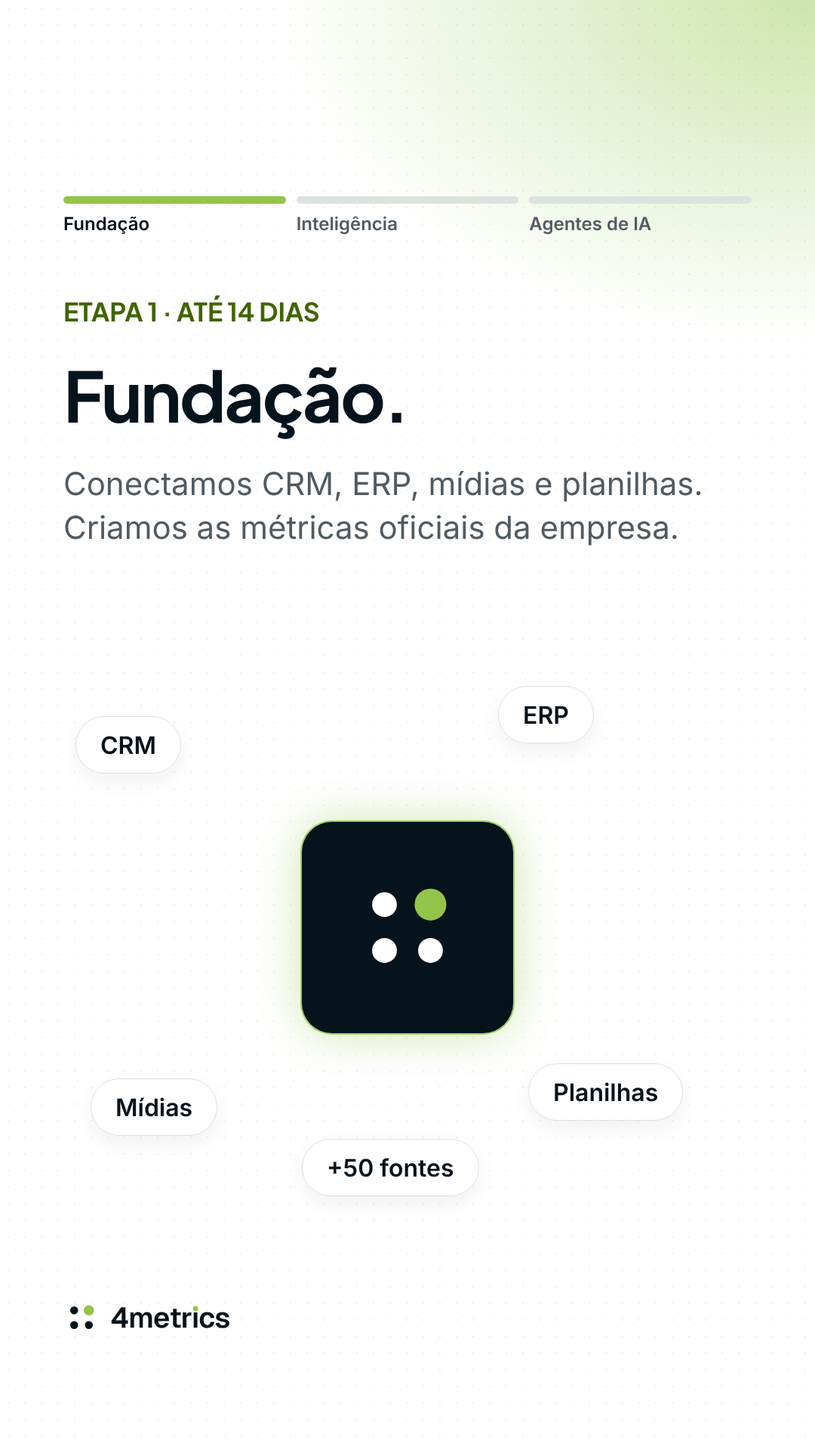
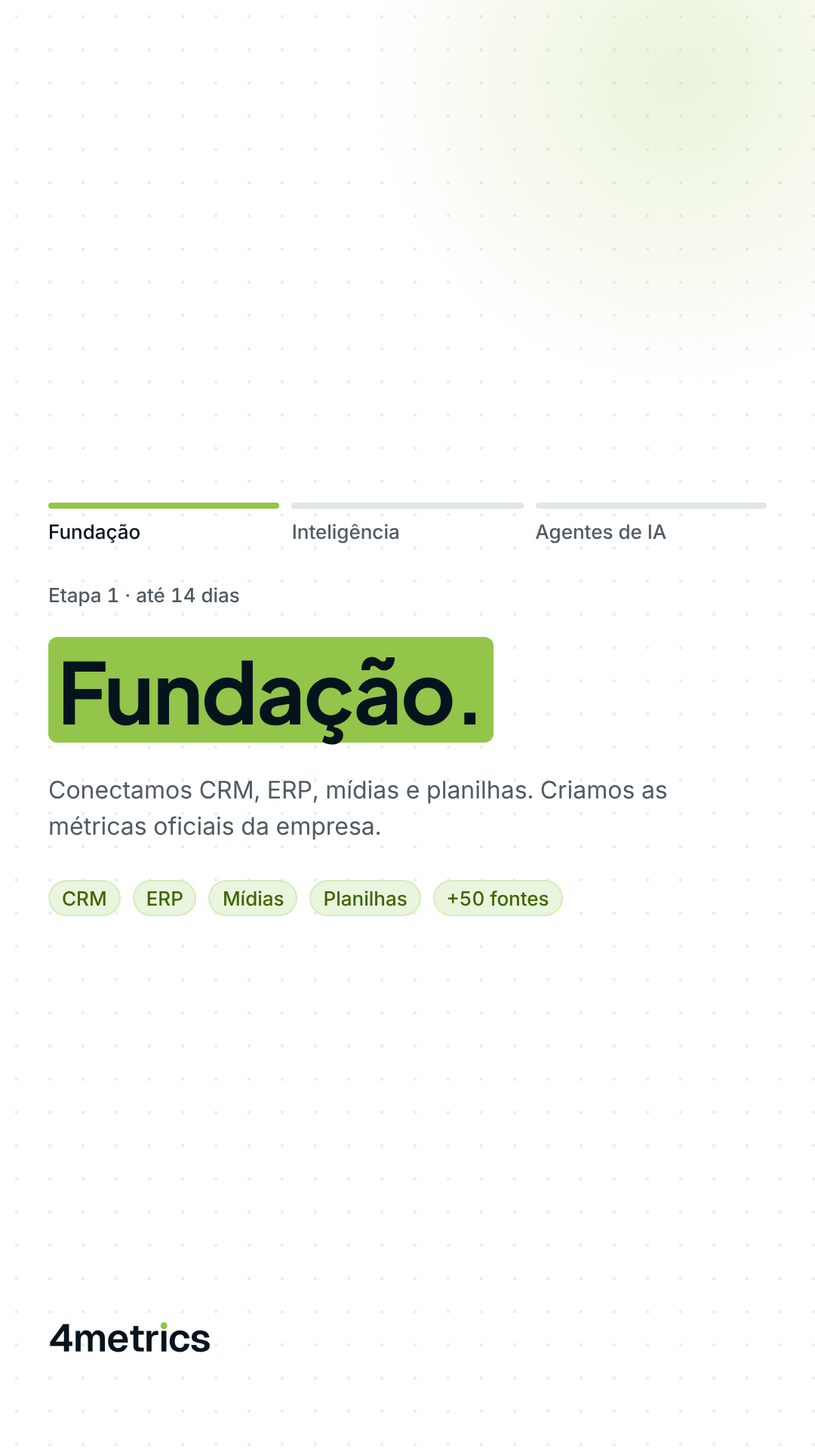
Pauta do site v3 no padrão do Design System 4metrics (tokens, raios, tipografia, componentes)
Claude-Session: https://claude.ai/code/session_01Kt7fy7HPrgyLGaKQANdjYb

diff --git a/kit/tools/pauta_ds.py b/kit/tools/pauta_ds.py
@@ -1,0 +1,164 @@
+import sys
+sys.path.insert(0, "/home/claude/tools")
+from ds4m import *
+V = "v3"
+OUT = "/home/claude/out/pauta-ds"
+
+# ============ T10 · 67% · 04/12 · estático névoa
+bars = "".join(f'<div style="display:flex;align-items:center;gap:12px"><span class="label" style="width:36px">{y}</span><div style="flex:1;height:12px;border-radius:999px;background:var(--subtle);border:1px solid var(--border);overflow:hidden"><div style="width:{v}%;height:100%;background:{c}"></div></div><span class="metric" style="width:56px;text-align:right">{v}%</span></div>' for y, v, c in (("2023", 55, "var(--bstrong)"), ("2024", 67, "var(--brand)")))
+frame(f"2026-12-04-confianca-67-{V}", "fe", "nevoa", f'''
+<div style="display:flex;gap:16px;align-items:center"><span class="display" style="font-size:96px;line-height:96px;letter-spacing:-0.04em">67%</span><div style="flex:1">{ph("5716001",120)}</div></div>
+{title("das organizações não confiam totalmente nos dados que usam para decidir.", "não confiam", "h1", "nevoa")}
+<div class="mid"><div class="card" style="display:grid;gap:12px">{bars}<span class="small muted">A desconfiança cresceu em um ano.</span></div></div>
+<p class="label" style="position:absolute;right:32px;bottom:32px;text-align:right;font-size:11px;line-height:15px">Fonte: Precisely e Drexel University,<br>2025 Outlook: Data Integrity Trends and Insights</p>''', "Dados de mercado")
+S = f"2026-12-04-st-confianca-67-{V}"
+frame(S+"-01", "st", "photo", f'<div class="mid">{title("2 em cada 3 empresas não confiam no próprio número.", "não confiam", "display", "photo")}</div>', "Dados de mercado", photo=("3184292",))
+frame(S+"-02", "st", "light", f'{title("A desconfiança está crescendo.", "crescendo", "h1", "light")}<div class="mid"><div class="card" style="display:grid;gap:16px">{bars}</div><p class="small muted">Organizações que não confiam totalmente nos dados que usam para decidir. Fonte: Precisely e Drexel University, 2025 Outlook.</p></div>')
+nums = '<div style="display:grid;grid-template-columns:1fr 1fr 1fr;gap:8px">' + "".join(f'<div class="card" style="padding:16px;display:grid;gap:4px"><span class="label">{a}</span><span class="metric" style="font-size:22px">{b}</span></div>' for a, b in (("Planilha", "R$ 1,08 mi"), ("Power BI", "R$ 1,24 mi"), ("Relatório", "R$ 980 mil"))) + '</div>'
+frame(S+"-03", "st", "dark", f'{title("O sintoma: cada área chega com o seu número.", "sintoma", "h1", "dark")}<div class="mid"><p class="body muted">Quanto vendemos este mês?</p>{nums}</div>')
+oficial = metric("Receita do mês · número oficial", "R$ 1,12 mi", delta("+8%", "vs. outubro"), feat=True)
+frame(S+"-04", "st", "lima", f'<div class="mid">{title("Com a 4metrics, um número oficial.", None, "display", "lima")}{oficial}<p class="body">Uma regra por métrica, verificada e igual para todo mundo.</p><p class="h3">Responda: DIAGNÓSTICO</p></div>')
+
+# ============ T6 · fila · 07/12 · stories (feed = Reel)
+S = f"2026-12-07-st-fila-relatorios-{V}"
+frame(S+"-01", "st", "photo", f'<div class="mid">{title("Seu time de dados virou fila de relatórios?", "fila", "display", "photo")}</div>', "Custo da demora", photo=("7688336",))
+tk = [("#124", "Receita por canal", "há 6 dias"), ("#125", "CAC de outubro", "há 4 dias"), ("#126", "Leads parados no funil", "há 3 dias"), ("#127", "Meta x realizado por loja", "há 1 dia")]
+frame(S+"-02", "st", "light", f'''{title("Um pedido para cada número.", "pedido", "h1", "light")}<div class="mid"><table class="tbl" style="border:1px solid var(--border);border-radius:16px;overflow:hidden;border-collapse:separate;border-spacing:0">
+<tr><th>Pedido</th><th>Relatório</th><th style="text-align:right">Na fila</th></tr>{"".join(f'<tr><td class="muted">{a}</td><td style="font-weight:500">{b}</td><td style="text-align:right;color:var(--warn);font-weight:600;white-space:nowrap">{c}</td></tr>' for a,b,c in tk)}</table>
+<p class="body muted">E a semana passa montando relatório.</p></div>''')
+frame(S+"-03", "st", "nevoa", f'''{title("Com a 4metrics, a resposta chega na hora.", "na hora", "h1", "nevoa")}<div class="mid">
+<div style="align-self:flex-end;background:#05131C;color:#fff;border-radius:16px;padding:12px 16px" class="body">Qual foi o CAC de outubro?</div>
+{metric("CAC de outubro · número oficial", "R$ 48", '<span class="small muted">O mesmo número do painel, com a regra oficial.</span>', feat=True)}</div>''')
+frame(S+"-04", "st", "dark", f'<div class="mid">{title("E o time de dados volta a melhorar o dado.", "melhorar", "display", "dark")}<p class="body muted">Comercial e marketing saem da fila.</p><p class="h3">Responda: DIAGNÓSTICO</p></div>')
+
+# ============ T1 · métricas oficiais · 14/12 · carrossel névoa 5
+C = f"2026-12-14-metricas-oficiais-{V}"
+frame(C+"-01", "fe", "nevoa", f'''{title("Acabou a briga pelo número certo.", "certo", "display", "nevoa")}
+<div class="mid" style="gap:0">{ph("3184339",250)}<div style="margin:-56px 24px 0;position:relative">{metric("Receita do mês · número oficial","R$ 1,12 mi",delta("+8%","vs. outubro"),feat=True,extra="background:#fff")}</div></div>''', "Métricas oficiais")
+frame(C+"-02", "fe", "dark", f'<p class="body muted">Quanto vendemos este mês?</p>{title("Três ferramentas. Três números.", "Três números.", "h1", "dark")}<div class="mid">{nums}<p class="body muted">E a reunião discute qual está certo.</p></div>')
+mcard = lambda: f'''<div class="card feat" style="display:grid;gap:0;padding:20px 24px"><div style="display:flex;justify-content:space-between;align-items:center;margin-bottom:8px"><span class="h3">Ticket médio</span>{state("pos","Verificada")}</div>
+{"".join(f'<div style="display:flex;justify-content:space-between;padding:8px 0;border-top:1px solid var(--border)"><span class="small muted">{k}</span><span class="small" style="font-weight:500">{v}</span></div>' for k,v in (("Fórmula","receita faturada ÷ pedidos"),("Fonte","ERP"),("Versão","v3, aprovada pelo comercial"),("Usada em","painel, alerta, resumo e sua IA")))}</div>'''
+frame(C+"-03", "fe", "light", f'{title("Uma regra por métrica.", "regra", "h1", "light")}<p class="body muted">Conversão, ticket médio, meta e receita: definidas uma vez com o seu time.</p><div class="mid">{mcard()}</div>')
+frame(C+"-04", "fe", "nevoa", f'{title("Verificado antes de publicar.", "Verificado", "h1", "nevoa")}<p class="body muted">Se a regra muda, o número volta para revisão antes de chegar à diretoria.</p><div class="mid">{steps(["A regra muda","O número vai para revisão","A nova versão é aprovada","A diretoria recebe o número certo"])}</div>')
+frame(C+"-05", "fe", "light", f'<div class="mid">{title("Igual em todo lugar.", "todo lugar", "h1", "light")}{chips(["Painel","Alerta","Resumo diário","Agentes de IA"])}<p class="body">Uma regra, um número oficial e a mesma resposta para o seu time e para os seus agentes de IA.</p>{btn()}<p class="small muted">Ou comente DIAGNÓSTICO.</p></div>')
+S = f"2026-12-14-st-metricas-oficiais-{V}"
+frame(S+"-01", "st", "photo", f'<div class="mid">{title("Qual número está certo?", "certo?", "display", "photo")}</div>', "Métricas oficiais", photo=("3183197",))
+frame(S+"-02", "st", "dark", f'{title("Planilha, Power BI e relatório. Três respostas.", "Três respostas.", "h1", "dark")}<div class="mid">{nums}</div>')
+frame(S+"-03", "st", "light", f'{title("Na 4metrics, cada métrica tem uma regra oficial.", "regra oficial", "h1", "light")}<div class="mid">{mcard()}</div>')
+frame(S+"-04", "st", "lima", f'<div class="mid">{title("A reunião discute o que fazer.", None, "display", "lima")}<p class="body">Não qual número está certo.</p><p class="h3">Responda: DIAGNÓSTICO</p></div>')
+
+# ============ T7 · segurança · 21/12 · estático névoa
+seals = ["Conformidade com a LGPD", "Criptografia", "Acesso auditável", "Verificação em duas etapas", "DPA disponível"]
+frame(f"2026-12-21-seguranca-{V}", "fe", "nevoa", f'''<div style="display:flex;gap:16px;align-items:center">{title("Seus dados protegidos do início ao fim.", "protegidos", "h1", "nevoa", "flex:1")}<div style="width:140px;flex:none">{ph("1181467",140,"30% center","999px")}</div></div>
+<div class="mid">{items(seals,"shield-check")}</div><p class="small muted">E os seus agentes de IA executam com a sua aprovação.</p>''', "Segurança")
+S = f"2026-12-21-st-seguranca-{V}"
+frame(S+"-01", "st", "photo", f'<div class="mid">{title("IA com os dados da empresa. E a segurança?", "segurança?", "display", "photo")}</div>', "Segurança", photo=("3861969",))
+frame(S+"-02", "st", "light", f'{title("Com IA genérica, o controle sai da sua mão.", "controle", "h1", "light")}<div class="mid">{items(["Dados da empresa e de clientes fora do seu controle","Sem rastreabilidade de onde o número veio","A responsabilidade continua sendo sua"],"arrow-right")}</div>')
+frame(S+"-03", "st", "nevoa", f'{title("Na 4metrics, a segurança vem junto.", "segurança", "h1", "nevoa")}<div class="mid">{items(seals,"shield-check")}</div>')
+frame(S+"-04", "st", "dark", f'<div class="mid">{title("O mesmo controle de acesso, também na sua IA.", "também", "display", "dark")}<p class="body muted">Seus agentes executam com a sua aprovação. E fica registrado.</p><p class="h3">Responda: DIAGNÓSTICO</p></div>')
+
+# ============ T2 · regra muda · 06/01 · stories (feed = Reel)
+S = f"2027-01-06-st-regra-muda-{V}"
+frame(S+"-01", "st", "photo", f'<div class="mid">{title("E quando a regra muda?", "muda?", "display", "photo")}<p class="body muted">O CPL passa a contar só lead qualificado.</p></div>', "Métricas oficiais", photo=("669615",))
+frame(S+"-02", "st", "light", f'''{title("Sem regra oficial, tudo é refeito.", "refeito", "h1", "light")}<div class="mid"><div style="display:flex;flex-direction:column;gap:8px">{"".join(f'<div class="card" style="padding:12px 16px;display:flex;justify-content:space-between;align-items:center"><span class="body" style="font-weight:500">{x}</span>{state("warn","Refazer")}</div>' for x in ("Planilha","Power BI","Relatório"))}</div><p class="body muted">Por semanas, cada um mostra uma regra.</p></div>''')
+ver = f'''<div class="card feat" style="display:grid;gap:12px"><div style="display:flex;justify-content:space-between;align-items:center"><span class="h2">CPL</span>{state("pos","Versão 2 · hoje")}</div>
+<span class="small muted" style="text-decoration:line-through">Versão 1: custo ÷ todos os leads</span><span class="body" style="font-weight:500">Versão 2: custo ÷ leads qualificados</span></div>'''
+frame(S+"-03", "st", "dark", f'{title("Na 4metrics, a regra muda uma vez, com nova versão.", "uma vez", "h1", "dark")}<div class="mid">{ver}</div>')
+frame(S+"-04", "st", "lima", f'<div class="mid">{title("No mesmo dia, em todo lugar.", None, "display", "lima")}{chips(["Painel","Alerta","Sua IA"])}<p class="h3">Responda: DIAGNÓSTICO</p></div>')
+
+# ============ T3 · camada semântica · 08/01 · estático névoa
+frame(f"2027-01-08-camada-semantica-{V}", "fe", "nevoa", f'''{title("A IA consulta a métrica pronta. Nunca a tabela crua.", "pronta", "h1", "nevoa")}
+<div class="mid" style="gap:0">{ph("7213549",170)}<div style="margin:-48px 20px 0;position:relative">{mcard().replace('class="card feat"','class="card feat" style="background:#fff"',1)}</div></div>''', "Camada semântica")
+S = f"2027-01-08-st-camada-semantica-{V}"
+frame(S+"-01", "st", "photo", f'<div class="mid">{title("Por que a IA erra o número?", "erra", "display", "photo")}</div>', "Camada semântica", photo=("6801648",))
+frame(S+"-02", "st", "light", f'{title("Ela não conhece as regras do seu negócio.", "regras", "h1", "light")}<p class="body muted">Para acertar, a IA precisa de três coisas:</p><div class="mid">{steps(["Contexto do negócio: metas, regras e o que cada área chama de venda","Contexto dos dados: de onde vem cada número","Camada semântica: as métricas oficiais"])}</div>')
+frame(S+"-03", "st", "nevoa", f'{title("A métrica pronta, com nome, fórmula e versão.", "pronta", "h1", "nevoa")}<div class="mid">{mcard()}</div>')
+frame(S+"-04", "st", "dark", f'<div class="mid">{title("O mesmo contexto em todo lugar.", "contexto", "display", "dark")}<p class="body muted">No painel, no alerta, no chat e na sua IA via MCP.</p><p class="h3">Responda: DIAGNÓSTICO</p></div>')
+
+# ============ T5 · time de dados · 11/01 · carrossel claro 5
+C = f"2027-01-11-sem-time-de-dados-{V}"
+frame(C+"-01", "fe", "light", f'{title("Você não precisa de um time de dados. Você precisa da resposta.", "resposta", "h1", "light")}<div class="mid">{ph("3182812",330,"center 30%")}</div>', "Revenue Intelligence")
+frame(C+"-02", "fe", "nevoa", f'{title("Montar um time de dados é caro e demorado.", "caro", "h1", "nevoa")}<div class="mid">{items(["Contratar e reter especialistas","Conectar e manter as fontes","Criar e ajustar as regras do negócio","Atender a fila de pedidos"],"arrow-right")}</div>')
+tb = [("Quem faz", "Você contrata um projeto", "O seu time monta", "A 4metrics faz, sempre"), ("O que recebe", "Dashboard no fim", "Ferramentas para montar", "Resposta com o próximo passo"), ("1ª resposta", "Semanas a meses", "Depende do seu time", "Até 14 dias"), ("Negócio mudou", "Novo orçamento", "O seu time refaz", "A 4metrics ajusta"), ("Pronto para IA", "Fora do escopo", "Se o seu time montar", "Sim, via MCP")]
+tbl = '<table class="tbl" style="font-size:12px;line-height:16px;border:1px solid var(--border);border-radius:16px;overflow:hidden;border-collapse:separate;border-spacing:0"><tr><th></th><th>Consultoria de BI</th><th>Plataforma de dados</th><th style="color:var(--strong)">4metrics</th></tr>' + "".join(f'<tr><td style="font-weight:600;padding:10px 8px">{r[0]}</td><td class="muted" style="padding:10px 8px">{r[1]}</td><td class="muted" style="padding:10px 8px">{r[2]}</td><td style="font-weight:600;padding:10px 8px;background:var(--bsub)">{r[3]}</td></tr>' for r in tb) + '</table>'
+frame(C+"-03", "fe", "light", f'{title("Consultoria, plataforma ou 4metrics?", "4metrics?", "h1", "light")}<div class="mid">{tbl}</div>')
+frame(C+"-04", "fe", "dark", f'{title("A fundação é com a gente.", "com a gente", "h1", "dark")}<div class="mid">{steps(["Mapeamento: entendemos o negócio antes do dado","Acesso: você libera, a gente conecta","Extração: os dados chegam sozinhos, todo dia","Modelagem: um número só, com uma regra só","Manutenção: a fundação não para no primeiro dia"])}</div>')
+frame(C+"-05", "fe", "nevoa", f'<div class="mid">{metric("Primeiro insight","Até 14 dias",feat=True)}{title("Sem montar time de dados. Sem trocar suas ferramentas.", "Sem trocar", "h1", "nevoa")}{btn()}<p class="small muted">Ou comente DIAGNÓSTICO.</p></div>')
+S = f"2027-01-11-st-sem-time-de-dados-{V}"
+frame(S+"-01", "st", "nevoa", f'{title("Precisa contratar um time de dados?", "time de dados?", "display", "nevoa")}<div class="mid">{ph("5439381",420)}</div>', "Revenue Intelligence")
+frame(S+"-02", "st", "light", f'<div class="mid">{title("Não.", "Não.", "display", "light")}<p class="body">O time da 4metrics conecta as fontes, cria as métricas e ajusta as regras quando o seu negócio muda.</p></div>')
+frame(S+"-03", "st", "dark", f'{title("A fundação é com a gente.", "com a gente", "h1", "dark")}<div class="mid">{steps(["Mapeamento","Acesso","Extração","Modelagem","Manutenção"])}</div>')
+frame(S+"-04", "st", "lima", f'<div class="mid">{title("Primeiro insight em até 14 dias.", None, "display", "lima")}<p class="h3">Responda: DIAGNÓSTICO</p></div>')
+
+# ============ T4 · agentes · 13/01 · stories (feed = Reel)
+S = f"2027-01-13-st-agentes-aprovacao-{V}"
+frame(S+"-01", "st", "photo", f'<div class="mid">{title("E se a IA executasse o próximo passo?", "próximo passo?", "display", "photo")}</div>', "Agentes de IA", photo=("7567443",))
+frame(S+"-02", "st", "light", f'{title("Do gargalo à execução.", "execução", "h1", "light")}<div class="mid">{steps(["A 4metrics encontra o gargalo","O próximo passo vai para o seu agente","Você aprova","Ele executa no CRM e fica registrado"])}</div>')
+appr = f'''<div class="card feat" style="display:grid;gap:16px">{state("warn","Atenção")}<span class="h2">Priorizar os contatos parados há mais de 30 dias.</span>
+<div style="display:flex;gap:8px"><span class="btn">Aprovar</span><span class="btn" style="background:var(--surface);color:var(--ink);border:1px solid var(--bstrong)">Ajustar</span></div></div>'''
+frame(S+"-03", "st", "nevoa", f'{title("Nada acontece sem você.", "sem você", "h1", "nevoa")}<div class="mid">{appr}</div>')
+frame(S+"-04", "st", "dark", f'<div class="mid">{title("Você decide quem executa: o seu time ou os seus agentes.", "Você decide", "display", "dark")}<p class="h3">Responda: DIAGNÓSTICO</p></div>')
+
+# ============ T8 · parceiros · 15/01 · estático lima
+pt = '<div style="display:flex;flex-direction:column;gap:8px">' + "".join(f'<div class="card" style="padding:16px 20px;display:flex;align-items:center;gap:12px"><span style="display:flex;color:#406500">{ico("check")}</span><span class="h2">{x}</span></div>' for x in ("Google Cloud", "Gemini Enterprise", "Claude Partner Network")) + '</div>'
+frame(f"2027-01-15-parceiros-{V}", "fe", "lima", f'''<div style="display:flex;gap:16px;align-items:center">{title("Parceiros oficiais de quem faz a IA.", None, "h1", "lima", "flex:1")}<div style="width:130px;flex:none">{ph("3184465",130,"center","999px")}</div></div>
+<div class="mid">{pt}</div><p class="small" style="color:#1F3A12">Seus números oficiais chegam a qualquer IA por uma conexão única.</p>''', "Parceiros")
+S = f"2027-01-15-st-parceiros-{V}"
+frame(S+"-01", "st", "photo", f'<div class="mid">{title("Com quem a 4metrics trabalha?", "trabalha?", "display", "photo")}</div>', "Parceiros", photo=("5673488",))
+frame(S+"-02", "st", "lima", f'{title("Parceiros oficiais.", None, "h1", "lima")}<div class="mid">{pt}</div>')
+frame(S+"-03", "st", "dark", f'{title("Uma conexão única para qualquer IA.", "qualquer IA", "h1", "dark")}<div class="mid">{chips(["ChatGPT","Claude","Gemini","Copilot"])}<p class="body muted">Quando a sua empresa trocar ou adicionar uma IA, ela já lê os mesmos números.</p></div>')
+frame(S+"-04", "st", "light", f'<div class="mid">{title("Sua empresa pronta para cada nova IA.", "pronta", "display", "light")}<p class="h3">Responda: DIAGNÓSTICO</p></div>')
+
+# ============ T9 · BI e company brain · 18/01 · carrossel claro 4
+C = f"2027-01-18-bi-company-brain-{V}"
+frame(C+"-01", "fe", "light", f'''<div class="mid" style="flex-direction:row;align-items:center;gap:20px"><div style="flex:1;display:flex;flex-direction:column;gap:16px"><p class="body muted">As dúvidas que ouvimos antes de todo diagnóstico.</p>{title("Já tenho BI. Faz sentido?", "sentido?", "h1", "light")}{chips(["BI","Company brain","MCP do CRM"])}</div>
+<div style="width:200px;flex:none">{ph("8867431",400,"60% center")}</div></div>''', "Dúvidas frequentes")
+hub = lambda a, b: f'''<div style="display:flex;align-items:center;gap:12px"><div class="card" style="flex:1;text-align:center;padding:20px 12px"><span class="h3">{a}</span></div><span class="strong" style="display:flex">{ico("arrow-left-right",24)}</span>
+<div class="card feat" style="flex:1;display:flex;flex-direction:column;align-items:center;gap:8px;padding:16px 12px"><img src="file://{LOGOS}/4metrics-simbolo.svg" style="height:32px"><span class="h3">{b}</span></div></div>'''
+frame(C+"-02", "fe", "nevoa", f'{title("A 4metrics substitui o meu BI?", "BI?", "h1", "nevoa")}<p class="body">Pode substituir, mas não precisa. Funciona junto com o BI que você já usa e tira o comercial da fila de pedidos.</p><div class="mid">{hub("Seu BI","4metrics")}</div>')
+frame(C+"-03", "fe", "light", f'{title("Já usamos um company brain.", "company brain.", "h1", "light")}<p class="body">Ele conhece documentos e conversas. A 4metrics entrega para ele os números oficiais e o próximo passo, via MCP.</p><div class="mid">{hub("Company brain","Números oficiais")}</div>')
+frame(C+"-04", "fe", "nevoa", f'<div class="mid">{title("Já tenho o MCP do meu CRM.", "MCP", "h1", "nevoa")}<p class="body">O MCP de uma ferramenta mostra só essa ferramenta. A 4metrics relaciona todas as fontes com as regras oficiais, em uma conexão única.</p>{chips(["CRM","ERP","Mídias","Planilhas"])}{btn()}<p class="small muted">Ou comente DIAGNÓSTICO.</p></div>')
+S = f"2027-01-18-st-bi-company-brain-{V}"
+frame(S+"-01", "st", "light", f'{title("3 dúvidas antes de todo diagnóstico.", "3 dúvidas", "display", "light")}<div class="mid">{ph("5668858",420,"40% center")}</div>', "Dúvidas frequentes")
+frame(S+"-02", "st", "nevoa", f'{title("A 4metrics substitui o meu BI?", "BI?", "h1", "nevoa")}<div class="mid"><span class="display" style="font-size:40px;line-height:44px">Pode. Mas não precisa.</span><p class="body">A 4metrics funciona junto com o BI que você já usa.</p></div>')
+frame(S+"-03", "st", "light", f'{title("Já temos um company brain.", "company brain.", "h1", "light")}<div class="mid">{hub("Company brain","Números oficiais")}<p class="body muted">A 4metrics entrega os números oficiais e o próximo passo, via MCP.</p></div>')
+frame(S+"-04", "st", "dark", f'<div class="mid">{title("Já tenho o MCP do CRM.", "MCP", "display", "dark")}<p class="body muted">Ele mostra só o CRM. A 4metrics junta todas as fontes, com as regras oficiais.</p><p class="h3">Responda: DIAGNÓSTICO</p></div>')
+
+# ============ T11 · demo + diagnóstico · 20/01 · estático escuro com foto
+two = lambda n, t: f'<div class="card" style="flex:1;display:grid;gap:8px;background:rgba(20,35,44,0.92)"><span class="mxl">{n}</span><span class="small">{t}</span></div>'
+frame(f"2027-01-20-demo-diagnostico-{V}", "fe", "photo", f'''{title("Dois jeitos de conhecer a 4metrics.", "conhecer", "display", "photo")}
+<div class="mid" style="justify-content:flex-end"><div style="display:flex;gap:8px">{two("3 min","Demo: veja a 4metrics encontrar um gargalo de receita.")}{two("30 min","Diagnóstico gratuito: mapeamos onde o dado trava a sua decisão.")}</div>{btn()}</div>''', "Comece aqui", photo=("7651922",))
+S = f"2027-01-20-st-demo-diagnostico-{V}"
+frame(S+"-01", "st", "photo", f'<div class="mid">{title("Dois jeitos de conhecer a 4metrics.", "conhecer", "display", "photo")}</div>', "Comece aqui", photo=("3184287",))
+frame(S+"-02", "st", "nevoa", f'<div class="mid">{metric("Demo no site","3 min",feat=True)}{title("O número oficial, o gargalo e o próximo passo.", "próximo passo", "h1", "nevoa")}</div>')
+frame(S+"-03", "st", "dark", f'{title("Diagnóstico gratuito de 30 minutos.", "gratuito", "h1", "dark")}<div class="mid">{items(["O mapa das suas fontes e de onde o número diverge","As decisões que mais pesam na sua receita","Onde a empresa está pronta para usar IA com segurança","Uma proposta com escopo e prazo"])}</div>')
+frame(S+"-04", "st", "lima", f'<div class="mid">{title("Sem custo. Sem compromisso.", None, "display", "lima")}<p class="body">Resposta em 1 dia útil.</p><p class="h3">Responda: DIAGNÓSTICO</p></div>')
+
+# ============ Como funciona · 23/11 · stories
+S = f"2026-11-23-como-funciona-{V}"
+frame(S+"-01", "st", "photo", f'<div class="mid">{title("Como funciona a 4metrics?", "4metrics?", "display", "photo")}<p class="body muted">Do dado espalhado à resposta pronta. Em até 14&nbsp;dias.</p></div>', "Como funciona", photo=("3184418",))
+frame(S+"-02", "st", "nevoa", f'''<div class="mid">{title("Você só acessa. A gente constrói o resto.", "constrói", "display", "nevoa")}
+<div style="display:flex;gap:8px"><div class="card" style="flex:1;display:grid;gap:4px"><span class="label">Você</span><span class="body">Acessa</span><span class="body">Pergunta</span><span class="body">Decide</span></div>
+<div class="card feat" style="flex:1;display:grid;gap:4px"><span class="label strong">4metrics</span><span class="body">Conecta</span><span class="body">Modela</span><span class="body">Governa</span></div></div></div>''', "Software com serviço")
+frame(S+"-03", "st", "light", f'{progress(0)}<span class="label">Etapa 1 · até 14 dias</span>{title("Fundação.", "Fundação.", "display", "light")}<p class="body muted">Conectamos CRM, ERP, mídias e planilhas. Criamos as métricas oficiais da empresa.</p><div class="mid">{chips(["CRM","ERP","Mídias","Planilhas","+50 fontes"])}</div>')
+frame(S+"-04", "st", "dark", f'''{progress(1)}<span class="label">Etapa 2 · até 14 dias</span>{title("Inteligência.", "Inteligência.", "display", "dark")}<p class="body muted">A IA lê os números oficiais todo dia e mostra gargalos e oportunidades, com o próximo passo.</p>
+<div class="mid" style="gap:8px">{"".join(f'<div class="card" style="display:grid;gap:6px;padding:16px">{state(k,l)}<span class="body" style="font-weight:500">{m}</span><span class="small muted">{a}</span></div>' for k,l,m,a in (("crit","Crítico","Receita faturada","Recuperar o ticket médio"),("warn","Atenção","Funil comercial","Destravar contatos parados"),("pos","Destaque","Conversão de leads","Mais vendas, mesmo volume")))}</div>''')
+frame(S+"-05", "st", "nevoa", f'{progress(2)}<span class="label">Etapa 3 · todo dia</span>{title("Agentes de IA.", "Agentes", "display", "nevoa")}<p class="body muted">A decisão entra na rotina.</p><div class="mid">{items(["Resposta para o seu time","Alertas no WhatsApp e no e-mail","Próximo passo para os seus agentes"],"arrow-right")}</div>')
+frame(S+"-06", "st", "dark", f'<div class="mid">{metric("Primeiro insight","Até 14 dias",feat=True)}{title("Sem trocar de ferramenta. Sem montar time de dados.", "Sem trocar", "h1", "dark")}</div>')
+frame(S+"-07", "st", "light", f'''{title("E depois? A gente fica do seu lado.", "do seu lado", "display", "light")}<div class="mid"><table class="tbl" style="border:1px solid var(--border);border-radius:16px;overflow:hidden;border-collapse:separate;border-spacing:0">
+<tr><th>Projeto de BI</th><th style="color:var(--strong)">4metrics</th></tr>{"".join(f'<tr><td class="muted">{a}</td><td style="font-weight:500">{b}</td></tr>' for a,b in (("Entrega única","Assinatura que evolui"),("Dashboard é o fim","Resposta e próximo passo"),("Pergunta nova = orçamento","Pergunte para a IA")))}</table>
+<p class="body">Diagnóstico gratuito de 30 minutos: mapeamos onde o dado trava a sua decisão.</p><p class="h3">Responda: DIAGNÓSTICO</p></div>''')
+
+# ============ stories "Post novo no feed"
+def feedstory(name, cover, theme):
+    frame(name, "st", theme, f'<div class="mid" style="align-items:center"><img src="file://{OUT}/{cover}.png" style="width:440px;border-radius:16px;border:1px solid var(--border)"><span class="h3" style="display:flex;align-items:center;gap:8px">Confira no perfil {ico("arrow-right",20)}</span></div>', "Post novo no feed", foot=False)
+FEEDS = [("2026-12-04-story-confianca-67", f"2026-12-04-confianca-67-{V}", "dark"), ("2026-12-14-story-metricas-oficiais", f"2026-12-14-metricas-oficiais-{V}-01", "dark"),
+         ("2026-12-21-story-seguranca", f"2026-12-21-seguranca-{V}", "dark"), ("2027-01-08-story-camada-semantica", f"2027-01-08-camada-semantica-{V}", "dark"),
+         ("2027-01-11-story-sem-time-de-dados", f"2027-01-11-sem-time-de-dados-{V}-01", "nevoa"), ("2027-01-15-story-parceiros", f"2027-01-15-parceiros-{V}", "dark"),
+         ("2027-01-18-story-bi-company-brain", f"2027-01-18-bi-company-brain-{V}-01", "dark"), ("2027-01-20-story-demo-diagnostico", f"2027-01-20-demo-diagnostico-{V}", "nevoa")]
+
+if __name__ == "__main__":
+    pass1 = render(OUT)            # renderiza tudo (capas precisam existir para os stories de feed)
+    for n, c, t in FEEDS: feedstory(f"{n}-{V}", c, t)
+    probs = render(OUT)
+    print(len(FR), "frames", probs)

diff --git a/kit/tools/ds4m.py b/kit/tools/ds4m.py
@@ -1,0 +1,158 @@
+# 4metrics · peças sociais no padrão do Design System (artifact "4metrics")
+# Desenho em tamanho lógico (feed 540x675, story 540x960) com os tokens exatos do DS
+# e exportação em deviceScaleFactor 2 (1080x1350 e 1080x1920).
+import os
+FS = "/home/claude/fonts/fs"
+LOGOS = "/home/claude/social-media/kit/logos"
+PH = "/home/claude/out/stock/full"
+
+ff = ""
+for fam, pkg, pre in [("Inter", "fontsource-inter-5.3.0", "inter"), ("Plus Jakarta Sans", "fontsource-plus-jakarta-sans-5.3.0", "plus-jakarta-sans")]:
+    for w in (400, 500, 600, 700):
+        ff += f"@font-face{{font-family:'{fam}';src:url('file://{FS}/{pkg}/package/files/{pre}-latin-{w}-normal.woff2') format('woff2');font-weight:{w}}}"
+
+# tokens.json do DS (claro / escuro) + fundos de feed do MIV (névoa, lima)
+THEMES = {
+ "light": dict(surface="#FFFFFF", subtle="#F4F7F5", raised="#FFFFFF", border="#E1E7E4", bstrong="#7F8D88", ink="#05131C", muted="#4F5B63",
+               brand="#92C549", onbrand="#05131C", strong="#406500", bsub="#EAF5DD", crit="#C8372D", critsub="#FBE9E7", warn="#A85F05", warnsub="#FCF0DC",
+               pos="#3E7D12", possub="#EAF5DD", glow="rgba(146,197,73,0.20)", sglow="0 0 0 1px rgba(146,197,73,0.15), 0 0 24px rgba(146,197,73,0.22)", dots="rgba(5,19,28,0.08)", mark="mark"),
+ "dark": dict(surface="#05131C", subtle="#14232C", raised="#14232C", border="#2B3640", bstrong="#66757F", ink="#FFFFFF", muted="#9AA7B0",
+              brand="#92C549", onbrand="#05131C", strong="#92C549", bsub="#16301F", crit="#F06A5B", critsub="#3A1E1E", warn="#E8A33D", warnsub="#3A2C14",
+              pos="#92C549", possub="#1E3318", glow="rgba(146,197,73,0.24)", sglow="0 0 0 1px rgba(146,197,73,0.12), 0 0 28px rgba(146,197,73,0.16)", dots="rgba(255,255,255,0.08)", mark="strong"),
+}
+THEMES["nevoa"] = {**THEMES["light"], "surface": "#EAF5DD", "subtle": "#FFFFFF", "bsub": "#FFFFFF"}
+THEMES["lima"] = {**THEMES["light"], "surface": "#92C549", "subtle": "rgba(255,255,255,0.45)", "raised": "#FFFFFF", "border": "rgba(5,19,28,0.16)", "muted": "#1F3A12", "strong": "#05131C", "bsub": "#FFFFFF", "dots": "rgba(5,19,28,0.10)", "mark": "none"}
+THEMES["photo"] = THEMES["dark"]
+
+def css_vars(t):
+    return ";".join(f"--{k}:{v}" for k, v in t.items() if k != "mark")
+
+CSS = ff + """
+*{box-sizing:border-box} body{margin:0;background:#888}
+.f{position:relative;overflow:hidden;display:flex;flex-direction:column;font-family:'Inter',system-ui,sans-serif;color:var(--ink);background-color:var(--surface);
+   background-image:radial-gradient(var(--dots) 1px,transparent 1.2px);background-size:22px 22px;margin-bottom:10px;-webkit-font-smoothing:antialiased;font-variant-numeric:tabular-nums}
+.fe{width:540px;height:675px;padding:32px 32px 76px;gap:16px}
+.st{width:540px;height:960px;padding:120px 32px 140px;gap:24px}
+.st{justify-content:center} .st .mid{flex:none} .st>.badge{position:absolute;top:120px;left:32px}
+.glow{position:absolute;width:420px;height:420px;right:-120px;top:-160px;border-radius:999px;background:radial-gradient(closest-side,var(--glow),transparent);pointer-events:none}
+.display{margin:0;font-family:'Plus Jakarta Sans',sans-serif;font-size:56px;line-height:60px;font-weight:700;letter-spacing:-0.02em}
+.h1{margin:0;font-family:'Plus Jakarta Sans',sans-serif;font-size:36px;line-height:44px;font-weight:700;letter-spacing:-0.01em}
+.h2{margin:0;font-family:'Plus Jakarta Sans',sans-serif;font-size:24px;line-height:32px;font-weight:600}
+.h3{margin:0;font-family:'Plus Jakarta Sans',sans-serif;font-size:18px;line-height:26px;font-weight:600}
+.body{margin:0;font-size:16px;line-height:24px}
+.small{margin:0;font-size:14px;line-height:20px}
+.label{font-size:13px;line-height:18px;font-weight:500;color:var(--muted)}
+.muted{color:var(--muted)}
+.mxl{font-family:'Plus Jakarta Sans',sans-serif;font-size:40px;line-height:44px;font-weight:700;letter-spacing:-0.02em}
+.metric{font-family:'Plus Jakarta Sans',sans-serif;font-size:24px;line-height:32px;font-weight:700}
+.mark{background:var(--brand);color:var(--onbrand);padding:0 6px;border-radius:6px;-webkit-box-decoration-break:clone;box-decoration-break:clone}
+.strong{color:var(--strong)}
+.badge{align-self:flex-start;display:inline-flex;align-items:center;gap:4px;font-size:13px;line-height:18px;font-weight:500;padding:2px 8px;border-radius:999px;background:var(--bsub);color:var(--strong);border:1px solid var(--glow)}
+.lima .badge{background:rgba(255,255,255,0.45);color:#05131C;border-color:rgba(5,19,28,0.16)}
+.photo .badge{background:#16301F}
+.btn{align-self:flex-start;display:inline-flex;align-items:center;gap:8px;font-size:15px;line-height:20px;font-weight:600;padding:10px 18px;border-radius:8px;background:var(--brand);color:var(--onbrand)}
+.lima .btn{background:#05131C;color:#FFFFFF}
+.card{background:var(--raised);border:1px solid var(--border);border-radius:16px;padding:24px}
+.card.insight{background:var(--bsub);border-color:transparent}
+.card.feat{border-color:rgba(146,197,73,0.6);box-shadow:var(--sglow)}
+.dot{width:8px;height:8px;border-radius:999px;display:inline-block;background:currentColor;flex:none}
+.delta{display:inline-flex;align-items:baseline;gap:4px;font-size:13px;line-height:20px;font-weight:600;white-space:nowrap}
+.delta.up{color:var(--strong)} .delta.down{color:var(--crit)} .delta .base{font-weight:400;color:var(--muted)}
+.tbl{width:100%;border-collapse:collapse;font-size:14px;line-height:20px;background:var(--raised)}
+.tbl th{text-align:left;font-size:13px;font-weight:500;color:var(--muted);background:var(--subtle);padding:8px 12px;border-bottom:1px solid var(--border)}
+.tbl td{padding:12px;border-bottom:1px solid var(--border);vertical-align:top}
+.tbl tr.sel td{background:var(--bsub)}
+.mid{flex:1;display:flex;flex-direction:column;justify-content:center;gap:16px;position:relative}
+.foot{position:absolute;left:32px;bottom:32px;display:flex;align-items:center}
+.st .foot{bottom:64px}
+.ph{position:relative;border-radius:16px;overflow:hidden;background-size:cover;background-position:center}
+.ico{width:20px;height:20px;flex:none;stroke:currentColor;fill:none;stroke-width:1.5;stroke-linecap:round;stroke-linejoin:round}
+"""
+
+# ícones Lucide (traço 1.5)
+LUCIDE = {
+ "check": '<path d="M20 6 9 17l-5-5"/>',
+ "arrow-right": '<path d="M5 12h14"/><path d="m12 5 7 7-7 7"/>',
+ "arrow-down": '<path d="M12 5v14"/><path d="m19 12-7 7-7-7"/>',
+ "arrow-left-right": '<path d="M8 3 4 7l4 4"/><path d="M4 7h16"/><path d="m16 21 4-4-4-4"/><path d="M20 17H4"/>',
+ "shield-check": '<path d="M20 13c0 5-3.5 7.5-7.66 8.95a1 1 0 0 1-.67-.01C7.5 20.5 4 18 4 13V6a1 1 0 0 1 1-1c2 0 4.5-1.2 6.24-2.72a1.17 1.17 0 0 1 1.52 0C14.51 3.81 17 5 19 5a1 1 0 0 1 1 1z"/><path d="m9 12 2 2 4-4"/>',
+ "refresh": '<path d="M3 12a9 9 0 0 1 9-9 9.75 9.75 0 0 1 6.74 2.74L21 8"/><path d="M21 3v5h-5"/><path d="M21 12a9 9 0 0 1-9 9 9.75 9.75 0 0 1-6.74-2.74L3 16"/><path d="M8 16H3v5"/>',
+ "mail": '<rect width="20" height="16" x="2" y="4" rx="2"/><path d="m22 7-8.97 5.7a1.94 1.94 0 0 1-2.06 0L2 7"/>',
+ "message": '<path d="M7.9 20A9 9 0 1 0 4 16.1L2 22Z"/>',
+ "bot": '<path d="M12 8V4H8"/><rect width="16" height="12" x="4" y="8" rx="2"/><path d="M2 14h2"/><path d="M20 14h2"/><path d="M15 13v2"/><path d="M9 13v2"/>',
+ "clock": '<circle cx="12" cy="12" r="10"/><polyline points="12 6 12 12 16 14"/>',
+}
+def ico(n, size=20, color=None):
+    c = f"color:{color};" if color else ""
+    return f'<svg class="ico" viewBox="0 0 24 24" style="width:{size}px;height:{size}px;{c}">{LUCIDE[n]}</svg>'
+
+def title(text, kw, cls="display", theme="light", style=""):
+    m = THEMES[theme]["mark"]
+    if kw:
+        assert kw in text, (kw, text)
+        rep = {"mark": f'<span class="mark">{kw}</span>', "strong": f'<span class="strong">{kw}</span>', "none": kw}[m]
+        text = text.replace(kw, rep, 1)
+    return f'<h1 class="{cls}" style="{style}">{text}</h1>'
+
+def logo(theme):
+    if theme == "lima":
+        return f'<img src="file://{LOGOS}/4metrics-logo-sobre-lima.svg" style="height:26px">'
+    f = "4metrics-logotipo-negativo.svg" if theme in ("dark", "photo") else "4metrics-logotipo.svg"
+    return f'<img src="file://{LOGOS}/{f}" style="height:20px">'
+
+def photo_bg(pid, pos="center"):
+    return (f"background-image:radial-gradient(rgba(255,255,255,0.08) 1px,transparent 1.2px),"
+            f"linear-gradient(180deg,rgba(5,19,28,0.30) 0%,rgba(5,19,28,0.70) 45%,rgba(5,19,28,0.95) 100%),url(file://{PH}/{pid}.jpg);"
+            f"background-size:22px 22px,cover,cover;background-position:0 0,center,{pos}")
+
+def ph(pid, h, pos="center", radius="16px"):
+    return f'<div class="ph" style="height:{h}px;border-radius:{radius};background-image:url(file://{PH}/{pid}.jpg);background-position:{pos}"></div>'
+
+FR = []
+def frame(name, kind, theme, body, badge=None, glow=True, photo=None, foot=True):
+    t = THEMES[theme]
+    extra = photo_bg(*photo) if photo else ""
+    g = '<div class="glow"></div>' if glow and theme != "lima" else ""
+    b = f'<span class="badge">{badge}</span>' if badge else ""
+    lg = f'<div class="foot">{logo(theme)}</div>' if foot else ""
+    FR.append((name, kind, f'<section class="f {kind} {theme}" id="x{len(FR)}" style="{css_vars(t)};{extra}">{g}{b}{body}{lg}</section>'))
+
+# ---------- componentes
+def btn(t="Agendar diagnóstico"): return f'<span class="btn">{t} {ico("arrow-right",18)}</span>'
+def badge(t): return f'<span class="badge">{t}</span>'
+def delta(v, base, up=True): return f'<span class="delta {"up" if up else "down"}">{"▲" if up else "▼"} {v} <span class="base">{base}</span></span>'
+def metric(label, value, d=None, hero=True, feat=False, extra=""):
+    return (f'<div class="card {"feat" if feat else ""}" style="display:grid;gap:8px;{extra}"><span class="label">{label}</span>'
+            f'<span class="{"mxl" if hero else "metric"}">{value}</span>{d or ""}</div>')
+def state(kind, text):
+    k = {"crit": ("var(--crit)", "var(--critsub)"), "warn": ("var(--warn)", "var(--warnsub)"), "pos": ("var(--pos)", "var(--possub)")}[kind]
+    return f'<span class="badge" style="background:{k[1]};color:{k[0]};border-color:transparent"><span class="dot"></span>{text}</span>'
+def items(lst, icon="check"):
+    return '<div style="display:flex;flex-direction:column;gap:8px">' + "".join(
+        f'<div class="card" style="padding:12px 16px;display:flex;align-items:center;gap:12px"><span class="strong" style="display:flex">{ico(icon)}</span><span class="small" style="font-weight:500">{x}</span></div>' for x in lst) + '</div>'
+def steps(lst):
+    return '<div style="display:flex;flex-direction:column;gap:8px">' + "".join(
+        f'<div class="card" style="padding:12px 16px;display:flex;align-items:center;gap:12px"><span class="badge" style="align-self:center;background:var(--brand);color:var(--onbrand);border-color:transparent">{i+1}</span><span class="small" style="font-weight:500">{x}</span></div>' for i, x in enumerate(lst)) + '</div>'
+def chips(lst): return '<div style="display:flex;flex-wrap:wrap;gap:8px">' + "".join(f'<span class="badge" style="align-self:center">{x}</span>' for x in lst) + '</div>'
+def progress(cur, labels=("Fundação","Inteligência","Agentes de IA")):
+    return '<div style="display:flex;gap:8px">' + "".join(
+        f'<div style="flex:1;display:flex;flex-direction:column;gap:6px"><i style="display:block;height:4px;border-radius:999px;background:{"var(--brand)" if k<=cur else "var(--border)"}"></i><span class="label" style="{"color:var(--ink)" if k==cur else ""}">{t}</span></div>' for k, t in enumerate(labels)) + '</div>'
+
+def render(outdir, html_name="all.html"):
+    os.makedirs(outdir, exist_ok=True)
+    html = f"<html><head><meta charset='utf-8'><style>{CSS}</style></head><body>" + "".join(h for _, _, h in FR) + "</body></html>"
+    open(f"{outdir}/{html_name}", "w").write(html)
+    from playwright.sync_api import sync_playwright
+    problems = []
+    with sync_playwright() as p:
+        b = p.chromium.launch(executable_path="/usr/bin/google-chrome")
+        pg = b.new_page(viewport={"width": 540, "height": 960}, device_scale_factor=2)
+        pg.goto(f"file://{outdir}/{html_name}"); pg.evaluate("document.fonts.ready"); pg.wait_for_timeout(1200)
+        res = pg.evaluate("""()=>[...document.querySelectorAll('section')].map(s=>{const r=s.getBoundingClientRect();const f=s.querySelector('.foot');const ft=f?f.getBoundingClientRect().top:r.bottom;
+          return [...s.querySelectorAll('*')].filter(e=>!e.closest('.foot')&&!e.classList.contains('glow')&&!e.closest('svg')).filter(e=>{const q=e.getBoundingClientRect();return q.width&&(q.right>r.right-0.5||q.left<r.left+0.5&&!e.classList.contains('ph')&&q.left<r.left-0.5||q.bottom>ft-6)}).length})""")
+        for i, (name, kind, _) in enumerate(FR):
+            loc = pg.locator(f"#x{i}"); loc.scroll_into_view_if_needed(); pg.wait_for_timeout(120)
+            loc.screenshot(path=f"{outdir}/{name}.png")
+            if res[i]: problems.append((name, res[i]))
+        b.close()
+    return problems
